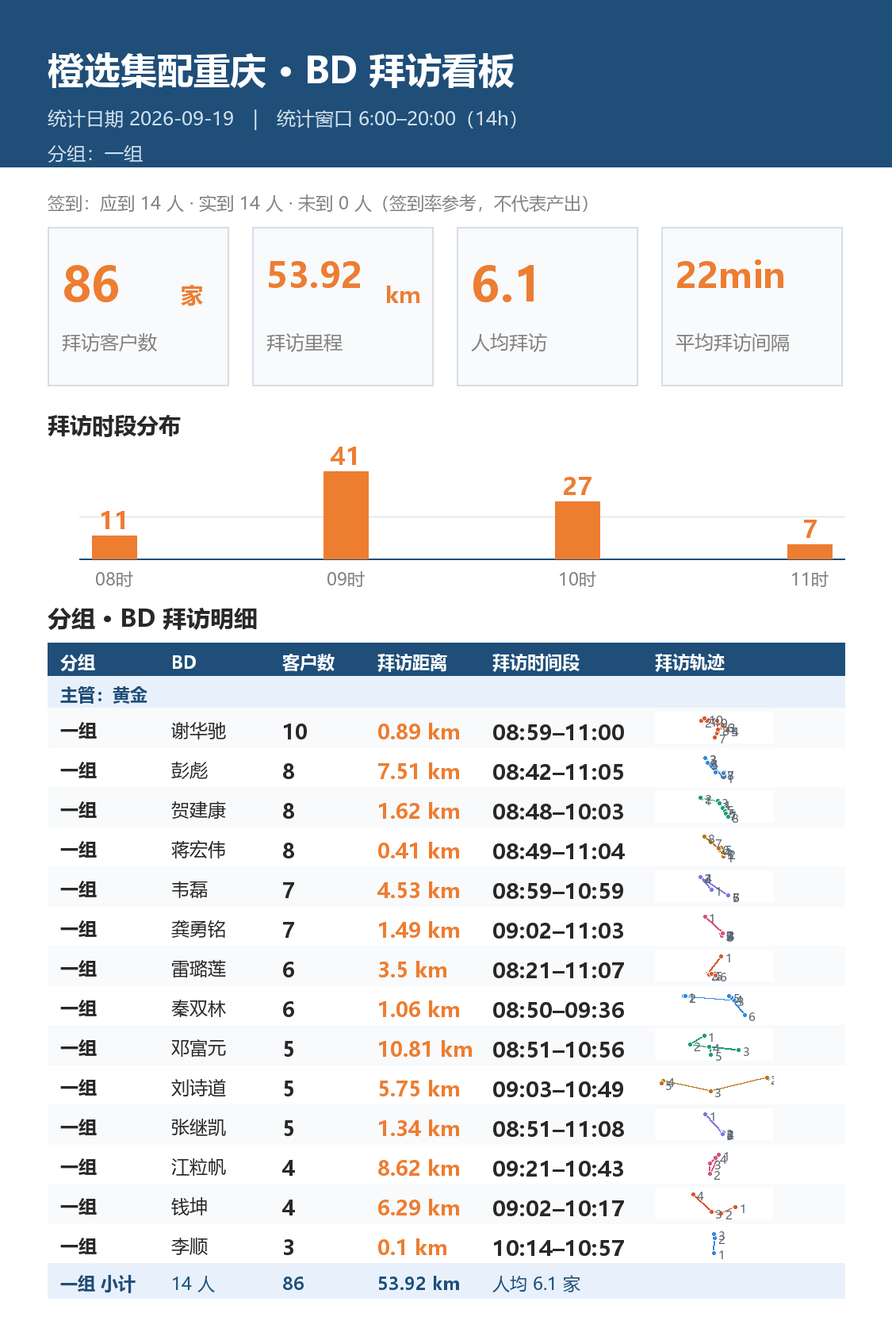
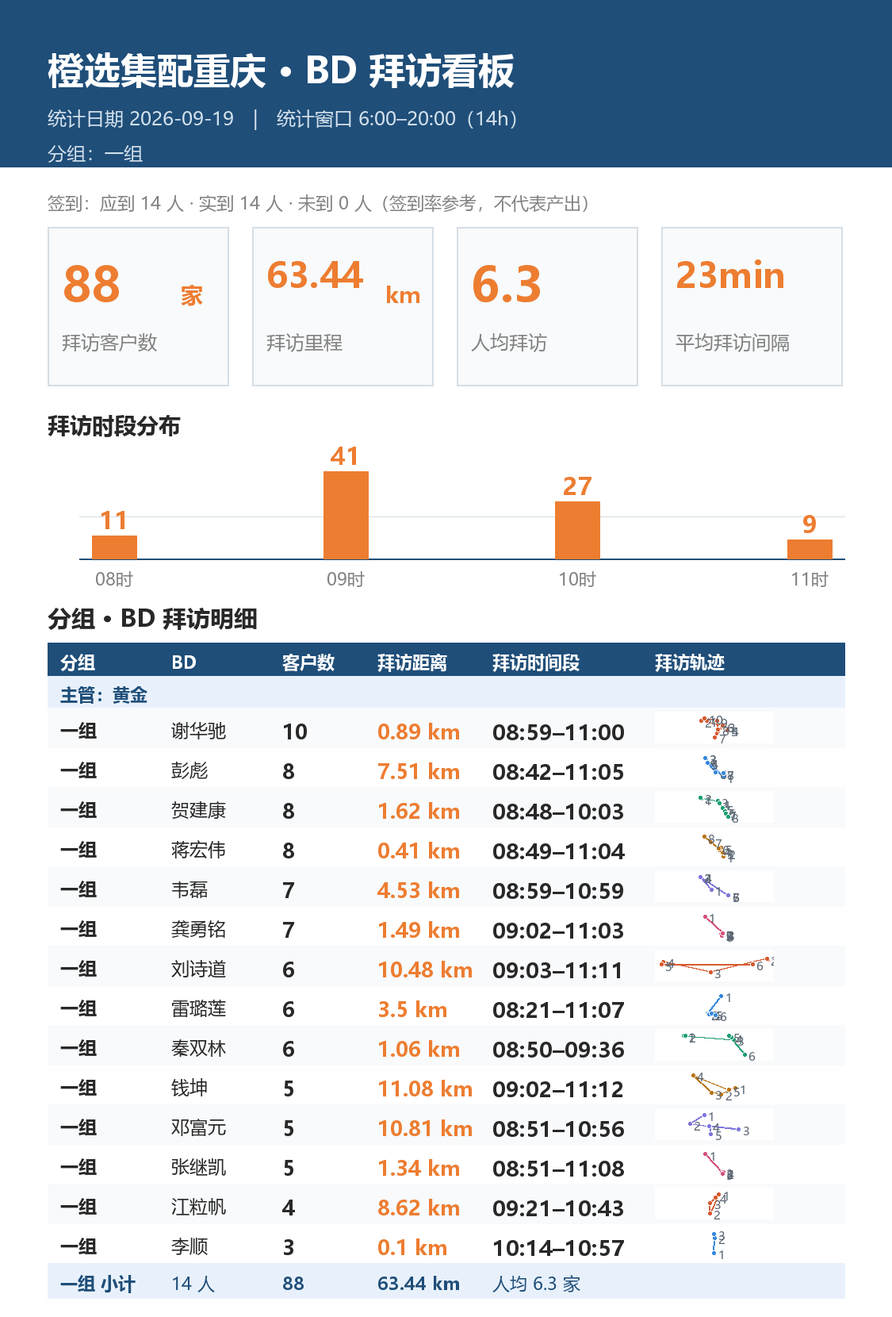
BD 拜访看板 2026-09-19

diff --git a/visit_board_g1.html b/visit_board_g1.html
@@ -107,9 +107,9 @@ td.span{font-size:16px;font-weight:600;color:#1F4E79;white-space:nowrap}
 <div class="sub">统计日期 2026-09-19　|　14 人　|　数据来源：钉钉签到</div></div>
 <div class="wrap">
 <div class="cards">
-<div class="card"><div><span class="v">86</span><span class="u">家</span></div><div class="l">拜访客户数</div></div><div class="card"><div><span class="v">53.92</span><span class="u">km</span></div><div class="l">拜访里程</div></div><div class="card"><div><span class="v">6.1</span><span class="u">家</span></div><div class="l">人均拜访</div></div><div class="card"><div><span class="v">22min</span><span class="u"></span></div><div class="l">平均拜访间隔</div></div>
+<div class="card"><div><span class="v">88</span><span class="u">家</span></div><div class="l">拜访客户数</div></div><div class="card"><div><span class="v">63.44</span><span class="u">km</span></div><div class="l">拜访里程</div></div><div class="card"><div><span class="v">6.3</span><span class="u">家</span></div><div class="l">人均拜访</div></div><div class="card"><div><span class="v">23min</span><span class="u"></span></div><div class="l">平均拜访间隔</div></div>
 </div>
-<div class="section"><h2>拜访时段分布</h2><div class="chart"><div class="crow"><div class="col"><span class="bv">11</span><div class="bar" style="height:16px"></div><span class="xl">08时</span></div><div class="col"><span class="bv">41</span><div class="bar" style="height:50px"></div><span class="xl">09时</span></div><div class="col"><span class="bv">27</span><div class="bar" style="height:34px"></div><span class="xl">10时</span></div><div class="col"><span class="bv">7</span><div class="bar" style="height:12px"></div><span class="xl">11时</span></div></div></div></div>
+<div class="section"><h2>拜访时段分布</h2><div class="chart"><div class="crow"><div class="col"><span class="bv">11</span><div class="bar" style="height:16px"></div><span class="xl">08时</span></div><div class="col"><span class="bv">41</span><div class="bar" style="height:50px"></div><span class="xl">09时</span></div><div class="col"><span class="bv">27</span><div class="bar" style="height:34px"></div><span class="xl">10时</span></div><div class="col"><span class="bv">9</span><div class="bar" style="height:14px"></div><span class="xl">11时</span></div></div></div></div>
 <div class="section"><h2>BD 拜访明细（14 人 / 签到 14 人）</h2>
 <table class="bd"><thead><tr><th>BD</th><th class="num">客户数</th><th class="num">拜访距离</th><th class="c">拜访时间段</th><th class="c">拜访轨迹</th></tr></thead>
 <tbody><tr style="background:#F2F6FB">
@@ -149,46 +149,46 @@ td.span{font-size:16px;font-weight:600;color:#1F4E79;white-space:nowrap}
 <td class="c span" data-label="拜访时间段">09:02–11:03</td>
 <td class="c" data-label="拜访轨迹"><a href="javascript:void(0)" onclick="openRoute(5)" style="color:#1F4E79;font-weight:600;font-size:13px;white-space:nowrap">查看详情 ›</a></td>
 </tr><tr style="background:#F2F6FB">
+<td data-label="BD">刘诗道</td>
+<td class="num" data-label="客户数">6</td>
+<td class="num orange" data-label="拜访距离">10.48</td>
+<td class="c span" data-label="拜访时间段">09:03–11:11</td>
+<td class="c" data-label="拜访轨迹"><a href="javascript:void(0)" onclick="openRoute(6)" style="color:#1F4E79;font-weight:600;font-size:13px;white-space:nowrap">查看详情 ›</a></td>
+</tr><tr style="background:#FFFFFF">
 <td data-label="BD">雷璐莲</td>
 <td class="num" data-label="客户数">6</td>
 <td class="num orange" data-label="拜访距离">3.5</td>
 <td class="c span" data-label="拜访时间段">08:21–11:07</td>
-<td class="c" data-label="拜访轨迹"><a href="javascript:void(0)" onclick="openRoute(6)" style="color:#1F4E79;font-weight:600;font-size:13px;white-space:nowrap">查看详情 ›</a></td>
-</tr><tr style="background:#FFFFFF">
+<td class="c" data-label="拜访轨迹"><a href="javascript:void(0)" onclick="openRoute(7)" style="color:#1F4E79;font-weight:600;font-size:13px;white-space:nowrap">查看详情 ›</a></td>
+</tr><tr style="background:#F2F6FB">
 <td data-label="BD">秦双林</td>
 <td class="num" data-label="客户数">6</td>
 <td class="num orange" data-label="拜访距离">1.06</td>
 <td class="c span" data-label="拜访时间段">08:50–09:36</td>
-<td class="c" data-label="拜访轨迹"><a href="javascript:void(0)" onclick="openRoute(7)" style="color:#1F4E79;font-weight:600;font-size:13px;white-space:nowrap">查看详情 ›</a></td>
+<td class="c" data-label="拜访轨迹"><a href="javascript:void(0)" onclick="openRoute(8)" style="color:#1F4E79;font-weight:600;font-size:13px;white-space:nowrap">查看详情 ›</a></td>
+</tr><tr style="background:#FFFFFF">
+<td data-label="BD">钱坤</td>
+<td class="num" data-label="客户数">5</td>
+<td class="num orange" data-label="拜访距离">11.08</td>
+<td class="c span" data-label="拜访时间段">09:02–11:12</td>
+<td class="c" data-label="拜访轨迹"><a href="javascript:void(0)" onclick="openRoute(9)" style="color:#1F4E79;font-weight:600;font-size:13px;white-space:nowrap">查看详情 ›</a></td>
 </tr><tr style="background:#F2F6FB">
 <td data-label="BD">邓富元</td>
 <td class="num" data-label="客户数">5</td>
 <td class="num orange" data-label="拜访距离">10.81</td>
 <td class="c span" data-label="拜访时间段">08:51–10:56</td>
-<td class="c" data-label="拜访轨迹"><a href="javascript:void(0)" onclick="openRoute(8)" style="color:#1F4E79;font-weight:600;font-size:13px;white-space:nowrap">查看详情 ›</a></td>
+<td class="c" data-label="拜访轨迹"><a href="javascript:void(0)" onclick="openRoute(10)" style="color:#1F4E79;font-weight:600;font-size:13px;white-space:nowrap">查看详情 ›</a></td>
 </tr><tr style="background:#FFFFFF">
-<td data-label="BD">刘诗道</td>
-<td class="num" data-label="客户数">5</td>
-<td class="num orange" data-label="拜访距离">5.75</td>
-<td class="c span" data-label="拜访时间段">09:03–10:49</td>
-<td class="c" data-label="拜访轨迹"><a href="javascript:void(0)" onclick="openRoute(9)" style="color:#1F4E79;font-weight:600;font-size:13px;white-space:nowrap">查看详情 ›</a></td>
-</tr><tr style="background:#F2F6FB">
 <td data-label="BD">张继凯</td>
 <td class="num" data-label="客户数">5</td>
 <td class="num orange" data-label="拜访距离">1.34</td>
 <td class="c span" data-label="拜访时间段">08:51–11:08</td>
-<td class="c" data-label="拜访轨迹"><a href="javascript:void(0)" onclick="openRoute(10)" style="color:#1F4E79;font-weight:600;font-size:13px;white-space:nowrap">查看详情 ›</a></td>
-</tr><tr style="background:#FFFFFF">
+<td class="c" data-label="拜访轨迹"><a href="javascript:void(0)" onclick="openRoute(11)" style="color:#1F4E79;font-weight:600;font-size:13px;white-space:nowrap">查看详情 ›</a></td>
+</tr><tr style="background:#F2F6FB">
 <td data-label="BD">江粒帆</td>
 <td class="num" data-label="客户数">4</td>
 <td class="num orange" data-label="拜访距离">8.62</td>
 <td class="c span" data-label="拜访时间段">09:21–10:43</td>
-<td class="c" data-label="拜访轨迹"><a href="javascript:void(0)" onclick="openRoute(11)" style="color:#1F4E79;font-weight:600;font-size:13px;white-space:nowrap">查看详情 ›</a></td>
-</tr><tr style="background:#F2F6FB">
-<td data-label="BD">钱坤</td>
-<td class="num" data-label="客户数">4</td>
-<td class="num orange" data-label="拜访距离">6.29</td>
-<td class="c span" data-label="拜访时间段">09:02–10:17</td>
 <td class="c" data-label="拜访轨迹"><a href="javascript:void(0)" onclick="openRoute(12)" style="color:#1F4E79;font-weight:600;font-size:13px;white-space:nowrap">查看详情 ›</a></td>
 </tr><tr style="background:#FFFFFF">
 <td data-label="BD">李顺</td>
@@ -210,7 +210,7 @@ td.span{font-size:16px;font-weight:600;color:#1F4E79;white-space:nowrap}
 </div>
 
 <script>
-const R={"0": {"name": "谢华驰", "group": "一组", "visits": 10, "distance": 0.89, "span": "08:59–11:00", "pace": "13min", "pts": [{"lat": 29.40393039279514, "lon": 105.58701768663194, "time": "08:59", "visit": "赶集", "loc": "昌元街道滨河西路", "seg_km": 0.0}, {"lat": 29.40388671875, "lon": 105.58637830946181, "time": "09:00", "visit": "张姐", "loc": "昌元街道宝荣路康宁广场", "seg_km": 0.06}, {"lat": 29.403448893229168, "lon": 105.58894476996528, "time": "09:09", "visit": "水口寺菜市场", "loc": "昌元街道宝城路184号盛世棠城", "seg_km": 0.25}, {"lat": 29.403055013020833, "lon": 105.58930474175347, "time": "09:14", "visit": "242526号摊位", "loc": "昌元街道滨河西路盛世棠城", "seg_km": 0.06}, {"lat": 29.40304253472222, "lon": 105.58926052517361, "time": "09:30", "visit": "蔬菜摊", "loc": "昌元街道滨河西路盛世棠城", "seg_km": 0.0}, {"lat": 29.403431532118056, "lon": 105.58874918619792, "time": "09:53", "visit": "蔬果摊位", "loc": "昌元街道宝城路盛世棠城", "seg_km": 0.07}, {"lat": 29.402367621527777, "lon": 105.58790473090278, "time": "10:30", "visit": "蒋敏姐妹", "loc": "昌元街道后西三街135号天正西城峰2期", "seg_km": 0.14}, {"lat": 29.4030859375, "lon": 105.58827311197916, "time": "10:36", "visit": "陈姐粮油", "loc": "昌元街道宝城路盛世棠城", "seg_km": 0.09}, {"lat": 29.403880208333334, "lon": 105.58813042534722, "time": "10:54", "visit": "蔬菜摊位", "loc": "昌元街道滨河西路", "seg_km": 0.09}, {"lat": 29.404172634548612, "lon": 105.58680094401042, "time": "11:00", "visit": "蔬菜摊位", "loc": "昌元街道滨河西路康宁广场", "seg_km": 0.13}], "stops": [{"n": 1, "time": "08:59", "visit": "赶集", "loc": "昌元街道滨河西路"}, {"n": 2, "time": "09:00", "visit": "张姐", "loc": "昌元街道宝荣路康宁广场"}, {"n": 3, "time": "09:09", "visit": "水口寺菜市场", "loc": "昌元街道宝城路184号盛世棠城"}, {"n": 4, "time": "09:14", "visit": "242526号摊位", "loc": "昌元街道滨河西路盛世棠城"}, {"n": 5, "time": "09:30", "visit": "蔬菜摊", "loc": "昌元街道滨河西路盛世棠城"}, {"n": 6, "time": "09:53", "visit": "蔬果摊位", "loc": "昌元街道宝城路盛世棠城"}, {"n": 7, "time": "10:30", "visit": "蒋敏姐妹", "loc": "昌元街道后西三街135号天正西城峰2期"}, {"n": 8, "time": "10:36", "visit": "陈姐粮油", "loc": "昌元街道宝城路盛世棠城"}, {"n": 9, "time": "10:54", "visit": "蔬菜摊位", "loc": "昌元街道滨河西路"}, {"n": 10, "time": "11:00", "visit": "蔬菜摊位", "loc": "昌元街道滨河西路康宁广场"}]}, "1": {"name": "彭彪", "group": "一组", "visits": 8, "distance": 7.51, "span": "08:42–11:05", "pace": "20min", "pts": [{"lat": 28.812763, "lon": 105.827581, "time": "08:42", "visit": "王姐蔬菜", "loc": "符阳街道兴教街合江县汽车客运站", "seg_km": 0.0}, {"lat": 28.837179, "lon": 105.801506, "time": "09:11", "visit": "快易家果蔬", "loc": "符阳街道快易家便利店阳光江山里", "seg_km": 3.72}, {"lat": 28.837478, "lon": 105.801171, "time": "09:15", "visit": "阳光超市 陈哥", "loc": "符阳街道阳光江山里(北门)", "seg_km": 0.05}, {"lat": 28.83112, "lon": 105.804019, "time": "09:51", "visit": "锦华饭店", "loc": "符阳街道金御智能精品酒店(三河职业技术学院美荔城店)合江县中医医院(成人犬伤)", "seg_km": 0.76}, {"lat": 28.830675, "lon": 105.804125, "time": "09:55", "visit": "果小满", "loc": "果小满", "seg_km": 0.05}, {"lat": 28.818349, "lon": 105.816271, "time": "10:16", "visit": "全佳惠超市", "loc": "符阳街道福景佳苑", "seg_km": 1.81}, {"lat": 28.817294, "lon": 105.827695, "time": "10:52", "visit": "贾哥蔬菜批发", "loc": "符阳街道符阳路131号转角店综合市场", "seg_km": 1.12}, {"lat": 28.817304, "lon": 105.827704, "time": "11:05", "visit": "李哥蔬菜摊位", "loc": "符阳街道符阳路131号转角店综合市场", "seg_km": 0.0}], "stops": [{"n": 1, "time": "08:42", "visit": "王姐蔬菜", "loc": "符阳街道兴教街合江县汽车客运站"}, {"n": 2, "time": "09:11", "visit": "快易家果蔬", "loc": "符阳街道快易家便利店阳光江山里"}, {"n": 3, "time": "09:15", "visit": "阳光超市 陈哥", "loc": "符阳街道阳光江山里(北门)"}, {"n": 4, "time": "09:51", "visit": "锦华饭店", "loc": "符阳街道金御智能精品酒店(三河职业技术学院美荔城店)合江县中医医院(成人犬伤)"}, {"n": 5, "time": "09:55", "visit": "果小满", "loc": "果小满"}, {"n": 6, "time": "10:16", "visit": "全佳惠超市", "loc": "符阳街道福景佳苑"}, {"n": 7, "time": "10:52", "visit": "贾哥蔬菜批发", "loc": "符阳街道符阳路131号转角店综合市场"}, {"n": 8, "time": "11:05", "visit": "李哥蔬菜摊位", "loc": "符阳街道符阳路131号转角店综合市场"}]}, "2": {"name": "贺建康", "group": "一组", "visits": 8, "distance": 1.62, "span": "08:48–10:03", "pace": "11min", "pts": [{"lat": 28.8125281387006, "lon": 105.82746294541661, "time": "08:48", "visit": "宏泰酒店", "loc": "符阳街道兴教街139号合江县汽车客运站", "seg_km": 0.0}, {"lat": 28.813089752690665, "lon": 105.82734719011563, "time": "08:53", "visit": "黄三姐超市", "loc": "符阳街道长江路合江县汽车客运站", "seg_km": 0.06}, {"lat": 28.81168, "lon": 105.834943, "time": "09:11", "visit": "蔬菜批发零售", "loc": "符阳街道新华中路", "seg_km": 0.76}, {"lat": 28.810711, "lon": 105.83552, "time": "09:17", "visit": "优品源", "loc": "符阳街道新华中路江畔明珠", "seg_km": 0.12}, {"lat": 28.808876, "lon": 105.837186, "time": "09:29", "visit": "赵记卤味", "loc": "符阳街道新华中路符阳街道红卫小学", "seg_km": 0.26}, {"lat": 28.807561, "lon": 105.838018, "time": "09:39", "visit": "绿源蔬菜", "loc": "符阳街道新华中路凯帝商务宾馆(流水沟巷店)", "seg_km": 0.17}, {"lat": 28.806721, "lon": 105.838399, "time": "09:47", "visit": "精品羊绒毛", "loc": "符阳街道月亮街", "seg_km": 0.1}, {"lat": 28.805714, "lon": 105.839462, "time": "10:03", "visit": "新鲜菜", "loc": "符阳街道新华南路", "seg_km": 0.15}], "stops": [{"n": 1, "time": "08:48", "visit": "宏泰酒店", "loc": "符阳街道兴教街139号合江县汽车客运站"}, {"n": 2, "time": "08:53", "visit": "黄三姐超市", "loc": "符阳街道长江路合江县汽车客运站"}, {"n": 3, "time": "09:11", "visit": "蔬菜批发零售", "loc": "符阳街道新华中路"}, {"n": 4, "time": "09:17", "visit": "优品源", "loc": "符阳街道新华中路江畔明珠"}, {"n": 5, "time": "09:29", "visit": "赵记卤味", "loc": "符阳街道新华中路符阳街道红卫小学"}, {"n": 6, "time": "09:39", "visit": "绿源蔬菜", "loc": "符阳街道新华中路凯帝商务宾馆(流水沟巷店)"}, {"n": 7, "time": "09:47", "visit": "精品羊绒毛", "loc": "符阳街道月亮街"}, {"n": 8, "time": "10:03", "visit": "新鲜菜", "loc": "符阳街道新华南路"}]}, "3": {"name": "蒋宏伟", "group": "一组", "visits": 8, "distance": 0.41, "span": "08:49–11:04", "pace": "19min", "pts": [{"lat": 29.402086859809028, "lon": 105.58940239800347, "time": "08:49", "visit": "老百姓超市", "loc": "昌元街道滨河中路315号天正西城峰2期", "seg_km": 0.0}, {"lat": 29.40240234375, "lon": 105.58958279079862, "time": "08:59", "visit": "蔬菜小妹", "loc": "昌元街道滨河中路295号天正西城峰2期", "seg_km": 0.04}, {"lat": 29.402454698350695, "lon": 105.58937201605903, "time": "09:06", "visit": "蔬菜店", "loc": "昌元街道滨河中路317号天正西城峰2期", "seg_km": 0.02}, {"lat": 29.40273627387153, "lon": 105.58894666883681, "time": "09:21", "visit": "水口寺101号摊位", "loc": "昌元街道后西三街125号盛世棠城", "seg_km": 0.05}, {"lat": 29.402991265190973, "lon": 105.58918294270833, "time": "09:54", "visit": "34号摊位", "loc": "昌元街道滨河中路321号盛世棠城", "seg_km": 0.04}, {"lat": 29.402959526909722, "lon": 105.58879448784722, "time": "10:19", "visit": "蔬菜摊", "loc": "昌元街道滨河中路333号盛世棠城", "seg_km": 0.04}, {"lat": 29.40367214626736, "lon": 105.58781602647569, "time": "10:31", "visit": "姜道海蔬菜配送", "loc": "昌元街道滨河西路", "seg_km": 0.12}, {"lat": 29.404242078993054, "lon": 105.58695421006945, "time": "11:04", "visit": "蔬菜摊", "loc": "昌元街道滨河西路75号宏博·帝锦花园", "seg_km": 0.1}], "stops": [{"n": 1, "time": "08:49", "visit": "老百姓超市", "loc": "昌元街道滨河中路315号天正西城峰2期"}, {"n": 2, "time": "08:59", "visit": "蔬菜小妹", "loc": "昌元街道滨河中路295号天正西城峰2期"}, {"n": 3, "time": "09:06", "visit": "蔬菜店", "loc": "昌元街道滨河中路317号天正西城峰2期"}, {"n": 4, "time": "09:21", "visit": "水口寺101号摊位", "loc": "昌元街道后西三街125号盛世棠城"}, {"n": 5, "time": "09:54", "visit": "34号摊位", "loc": "昌元街道滨河中路321号盛世棠城"}, {"n": 6, "time": "10:19", "visit": "蔬菜摊", "loc": "昌元街道滨河中路333号盛世棠城"}, {"n": 7, "time": "10:31", "visit": "姜道海蔬菜配送", "loc": "昌元街道滨河西路"}, {"n": 8, "time": "11:04", "visit": "蔬菜摊", "loc": "昌元街道滨河西路75号宏博·帝锦花园"}]}, "4": {"name": "韦磊", "group": "一组", "visits": 7, "distance": 4.53, "span": "08:59–10:59", "pace": "20min", "pts": [{"lat": 28.82181936371049, "lon": 105.81243338904132, "time": "08:59", "visit": "陈大姐", "loc": "符阳街道佛荔路君箭智造汽车充电站(君来电-源新超充站醉美站)", "seg_km": 0.0}, {"lat": 28.83210700527007, "lon": 105.80249249612905, "time": "09:23", "visit": "莉莉百货生鲜生活超市", "loc": "符阳街道荔城大道喜屿便利店", "seg_km": 1.5}, {"lat": 28.832117868800818, "lon": 105.80280315386996, "time": "09:39", "visit": "喜屿超市", "loc": "符阳街道荔城大道内江牛肉面", "seg_km": 0.03}, {"lat": 28.83197294594208, "lon": 105.8027346218224, "time": "09:52", "visit": "和成天下", "loc": "符阳街道荔城大道内江牛肉面", "seg_km": 0.02}, {"lat": 28.81721142140001, "lon": 105.82790533281856, "time": "10:37", "visit": "转角菜市场", "loc": "符阳街道干鲜调味品批发转角店综合市场", "seg_km": 2.95}, {"lat": 28.817132749436297, "lon": 105.82775410857676, "time": "10:50", "visit": "转角菜市场黄哥", "loc": "符阳街道转角店综合市场", "seg_km": 0.02}, {"lat": 28.817188404055933, "lon": 105.82774642587061, "time": "10:59", "visit": "转角菜市场李姐", "loc": "符阳街道转角店综合市场", "seg_km": 0.01}], "stops": [{"n": 1, "time": "08:59", "visit": "陈大姐", "loc": "符阳街道佛荔路君箭智造汽车充电站(君来电-源新超充站醉美站)"}, {"n": 2, "time": "09:23", "visit": "莉莉百货生鲜生活超市", "loc": "符阳街道荔城大道喜屿便利店"}, {"n": 3, "time": "09:39", "visit": "喜屿超市", "loc": "符阳街道荔城大道内江牛肉面"}, {"n": 4, "time": "09:52", "visit": "和成天下", "loc": "符阳街道荔城大道内江牛肉面"}, {"n": 5, "time": "10:37", "visit": "转角菜市场", "loc": "符阳街道干鲜调味品批发转角店综合市场"}, {"n": 6, "time": "10:50", "visit": "转角菜市场黄哥", "loc": "符阳街道转角店综合市场"}, {"n": 7, "time": "10:59", "visit": "转角菜市场李姐", "loc": "符阳街道转角店综合市场"}]}, "5": {"name": "龚勇铭", "group": "一组", "visits": 7, "distance": 1.49, "span": "09:02–11:03", "pace": "20min", "pts": [{"lat": 30.19592041468371, "lon": 105.84103222171747, "time": "09:02", "visit": "熊大爷水饺", "loc": "桂林街道金田路301号隆鑫中央大街销售中心", "seg_km": 0.0}, {"lat": 30.188638, "lon": 105.849946, "time": "09:35", "visit": "水果摊", "loc": "桂林街道五湖路翰林菜市场", "seg_km": 1.18}, {"lat": 30.188772, "lon": 105.850061, "time": "10:20", "visit": "幸福平价超市", "loc": "桂林街道五湖路翰林菜市场", "seg_km": 0.02}, {"lat": 30.188258, "lon": 105.849752, "time": "10:54", "visit": "生鲜摊", "loc": "桂林街道五湖路翰林菜市场", "seg_km": 0.06}, {"lat": 30.188402, "lon": 105.848982, "time": "10:56", "visit": "生鲜摊", "loc": "桂林街道五湖路453号翰林菜市场", "seg_km": 0.08}, {"lat": 30.187945, "lon": 105.849246, "time": "11:00", "visit": "生鲜摊", "loc": "桂林街道五湖路445号翰林菜市场", "seg_km": 0.06}, {"lat": 30.188766, "lon": 105.849433, "time": "11:03", "visit": "原来超市", "loc": "桂林街道民居街翰林菜市场", "seg_km": 0.09}], "stops": [{"n": 1, "time": "09:02", "visit": "熊大爷水饺", "loc": "桂林街道金田路301号隆鑫中央大街销售中心"}, {"n": 2, "time": "09:35", "visit": "水果摊", "loc": "桂林街道五湖路翰林菜市场"}, {"n": 3, "time": "10:20", "visit": "幸福平价超市", "loc": "桂林街道五湖路翰林菜市场"}, {"n": 4, "time": "10:54", "visit": "生鲜摊", "loc": "桂林街道五湖路翰林菜市场"}, {"n": 5, "time": "10:56", "visit": "生鲜摊", "loc": "桂林街道五湖路453号翰林菜市场"}, {"n": 6, "time": "11:00", "visit": "生鲜摊", "loc": "桂林街道五湖路445号翰林菜市场"}, {"n": 7, "time": "11:03", "visit": "原来超市", "loc": "桂林街道民居街翰林菜市场"}]}, "6": {"name": "雷璐莲", "group": "一组", "visits": 6, "distance": 3.5, "span": "08:21–11:07", "pace": "33min", "pts": [{"lat": 30.197614203559027, "lon": 105.84047471788195, "time": "08:21", "visit": "潼乐购生鲜超市", "loc": "桂林街道荣估五块十块火锅集市(潼南隆鑫店)隆鑫·天宸", "seg_km": 0.0}, {"lat": 30.17942816840278, "lon": 105.82440483940972, "time": "09:23", "visit": "鲜优美", "loc": "梓潼街道正兴街283号冠南花园", "seg_km": 2.54}, {"lat": 30.17913357204861, "lon": 105.82532118055556, "time": "09:35", "visit": "怡鲜超市", "loc": "梓潼街道正兴街191号御景江山", "seg_km": 0.09}, {"lat": 30.17927273220486, "lon": 105.82666259765625, "time": "10:19", "visit": "王果仓", "loc": "梓潼街道正兴街御景江山", "seg_km": 0.13}, {"lat": 30.1794677734375, "lon": 105.82966254340278, "time": "10:42", "visit": "菜到家", "loc": "梓潼街道通江巷华城名都", "seg_km": 0.29}, {"lat": 30.17849880642361, "lon": 105.83421630859375, "time": "11:07", "visit": "水果王子", "loc": "梓潼街道接龙横街外滩国际城2期", "seg_km": 0.45}], "stops": [{"n": 1, "time": "08:21", "visit": "潼乐购生鲜超市", "loc": "桂林街道荣估五块十块火锅集市(潼南隆鑫店)隆鑫·天宸"}, {"n": 2, "time": "09:23", "visit": "鲜优美", "loc": "梓潼街道正兴街283号冠南花园"}, {"n": 3, "time": "09:35", "visit": "怡鲜超市", "loc": "梓潼街道正兴街191号御景江山"}, {"n": 4, "time": "10:19", "visit": "王果仓", "loc": "梓潼街道正兴街御景江山"}, {"n": 5, "time": "10:42", "visit": "菜到家", "loc": "梓潼街道通江巷华城名都"}, {"n": 6, "time": "11:07", "visit": "水果王子", "loc": "梓潼街道接龙横街外滩国际城2期"}]}, "7": {"name": "秦双林", "group": "一组", "visits": 6, "distance": 1.06, "span": "08:50–09:36", "pace": "9min", "pts": [{"lat": 28.812544, "lon": 105.827814, "time": "08:50", "visit": "刘姐超市水果店", "loc": "符阳街道兴教街合江县汽车客运站", "seg_km": 0.0}, {"lat": 28.812457, "lon": 105.827951, "time": "09:12", "visit": "冯鲜生下单", "loc": "符阳街道兴教街合江县汽车客运站", "seg_km": 0.02}, {"lat": 28.812069, "lon": 105.834526, "time": "09:14", "visit": "菜大妈", "loc": "符阳街道新华中路", "seg_km": 0.64}, {"lat": 28.81227, "lon": 105.834243, "time": "09:17", "visit": "田园蔬菜维护", "loc": "符阳街道新华中路时代广场", "seg_km": 0.04}, {"lat": 28.812494, "lon": 105.833958, "time": "09:24", "visit": "左邻右舍", "loc": "符阳街道新华中路时代广场", "seg_km": 0.04}, {"lat": 28.810278, "lon": 105.836032, "time": "09:36", "visit": "鑫果源", "loc": "符阳街道新华中路江畔明珠", "seg_km": 0.32}], "stops": [{"n": 1, "time": "08:50", "visit": "刘姐超市水果店", "loc": "符阳街道兴教街合江县汽车客运站"}, {"n": 2, "time": "09:12", "visit": "冯鲜生下单", "loc": "符阳街道兴教街合江县汽车客运站"}, {"n": 3, "time": "09:14", "visit": "菜大妈", "loc": "符阳街道新华中路"}, {"n": 4, "time": "09:17", "visit": "田园蔬菜维护", "loc": "符阳街道新华中路时代广场"}, {"n": 5, "time": "09:24", "visit": "左邻右舍", "loc": "符阳街道新华中路时代广场"}, {"n": 6, "time": "09:36", "visit": "鑫果源", "loc": "符阳街道新华中路江畔明珠"}]}, "8": {"name": "邓富元", "group": "一组", "visits": 5, "distance": 10.81, "span": "08:51–10:56", "pace": "31min", "pts": [{"lat": 29.410038, "lon": 105.603905, "time": "08:51", "visit": "水果王", "loc": "昌州街道海棠四支路北城双星", "seg_km": 0.0}, {"lat": 29.40151696656638, "lon": 105.58851332170896, "time": "09:33", "visit": "杉芬水果", "loc": "昌元街道西大街64号天正西城峰2期", "seg_km": 1.77}, {"lat": 29.396535, "lon": 105.640739, "time": "09:59", "visit": "果果鲜水果店", "loc": "昌州街道东方大道125号", "seg_km": 5.09}, {"lat": 29.399422, "lon": 105.608704, "time": "10:17", "visit": "喻氏水果批发零售", "loc": "昌州街道迎宾大道南段36号", "seg_km": 3.12}, {"lat": 29.392335, "lon": 105.611231, "time": "10:56", "visit": "全又佳", "loc": "昌州街道迎宾大道南段149号昕晖中航·璟熙", "seg_km": 0.83}], "stops": [{"n": 1, "time": "08:51", "visit": "水果王", "loc": "昌州街道海棠四支路北城双星"}, {"n": 2, "time": "09:33", "visit": "杉芬水果", "loc": "昌元街道西大街64号天正西城峰2期"}, {"n": 3, "time": "09:59", "visit": "果果鲜水果店", "loc": "昌州街道东方大道125号"}, {"n": 4, "time": "10:17", "visit": "喻氏水果批发零售", "loc": "昌州街道迎宾大道南段36号"}, {"n": 5, "time": "10:56", "visit": "全又佳", "loc": "昌州街道迎宾大道南段149号昕晖中航·璟熙"}]}, "9": {"name": "刘诗道", "group": "一组", "visits": 5, "distance": 5.75, "span": "09:03–10:49", "pace": "26min", "pts": [{"lat": 29.406026, "lon": 105.639873, "time": "09:03", "visit": "老百姓超市行政中心", "loc": "昌州街道华腾路重庆巨龙管业公司", "seg_km": 0.0}, {"lat": 29.406419, "lon": 105.639611, "time": "09:29", "visit": "时代超市", "loc": "昌州街道永立优鲜", "seg_km": 0.05}, {"lat": 29.400174, "lon": 105.609481, "time": "09:59", "visit": "友源蔬菜配送中心", "loc": "昌州街道迎宾大道南段", "seg_km": 3.0}, {"lat": 29.405110256318125, "lon": 105.5842196531114, "time": "10:34", "visit": "绿源优选超市", "loc": "昌元街道中科路滨河花园", "seg_km": 2.51}, {"lat": 29.403739714783796, "lon": 105.5830773543366, "time": "10:49", "visit": "永立优鲜超市", "loc": "昌元街道中科路滨河花园", "seg_km": 0.19}], "stops": [{"n": 1, "time": "09:03", "visit": "老百姓超市行政中心", "loc": "昌州街道华腾路重庆巨龙管业公司"}, {"n": 2, "time": "09:29", "visit": "时代超市", "loc": "昌州街道永立优鲜"}, {"n": 3, "time": "09:59", "visit": "友源蔬菜配送中心", "loc": "昌州街道迎宾大道南段"}, {"n": 4, "time": "10:34", "visit": "绿源优选超市", "loc": "昌元街道中科路滨河花园"}, {"n": 5, "time": "10:49", "visit": "永立优鲜超市", "loc": "昌元街道中科路滨河花园"}]}, "10": {"name": "张继凯", "group": "一组", "visits": 5, "distance": 1.34, "span": "08:51–11:08", "pace": "34min", "pts": [{"lat": 30.195808919270835, "lon": 105.841142578125, "time": "08:51", "visit": "四喜酒店", "loc": "桂林街道瑞幸咖啡(隆鑫中央大街店)重庆四喜酒店(潼南隆鑫中央大街店)", "seg_km": 0.0}, {"lat": 30.188090006510418, "lon": 105.84945502387153, "time": "09:36", "visit": "奇旺生鲜", "loc": "桂林街道五湖路460号翰林菜市场", "seg_km": 1.17}, {"lat": 30.188436957465278, "lon": 105.84909613715278, "time": "09:39", "visit": "蔬菜摊位", "loc": "桂林街道民居街20号翰林菜市场", "seg_km": 0.05}, {"lat": 30.188282877604166, "lon": 105.84974500868056, "time": "10:54", "visit": "农资批发中心", "loc": "桂林街道五湖路翰林菜市场", "seg_km": 0.06}, {"lat": 30.187925618489583, "lon": 105.84924723307292, "time": "11:08", "visit": "蔬菜摊位", "loc": "桂林街道五湖路445号翰林菜市场", "seg_km": 0.06}], "stops": [{"n": 1, "time": "08:51", "visit": "四喜酒店", "loc": "桂林街道瑞幸咖啡(隆鑫中央大街店)重庆四喜酒店(潼南隆鑫中央大街店)"}, {"n": 2, "time": "09:36", "visit": "奇旺生鲜", "loc": "桂林街道五湖路460号翰林菜市场"}, {"n": 3, "time": "09:39", "visit": "蔬菜摊位", "loc": "桂林街道民居街20号翰林菜市场"}, {"n": 4, "time": "10:54", "visit": "农资批发中心", "loc": "桂林街道五湖路翰林菜市场"}, {"n": 5, "time": "11:08", "visit": "蔬菜摊位", "loc": "桂林街道五湖路445号翰林菜市场"}]}, "11": {"name": "江粒帆", "group": "一组", "visits": 4, "distance": 8.62, "span": "09:21–10:43", "pace": "28min", "pts": [{"lat": 30.193685, "lon": 105.856448, "time": "09:21", "visit": "豪生生鲜超市", "loc": "豪生生鲜超市(巴渝大道店)", "seg_km": 0.0}, {"lat": 30.155898, "lon": 105.835082, "time": "09:49", "visit": "家园生鲜超市", "loc": "家园超市(S205店)", "seg_km": 4.68}, {"lat": 30.1757, "lon": 105.836111, "time": "10:03", "visit": "五经坝农贸菜市场", "loc": "五经坝农产品交易中心", "seg_km": 2.2}, {"lat": 30.186993, "lon": 105.848603, "time": "10:43", "visit": "农贸市场", "loc": "江北智慧农贸市场", "seg_km": 1.74}], "stops": [{"n": 1, "time": "09:21", "visit": "豪生生鲜超市", "loc": "豪生生鲜超市(巴渝大道店)"}, {"n": 2, "time": "09:49", "visit": "家园生鲜超市", "loc": "家园超市(S205店)"}, {"n": 3, "time": "10:03", "visit": "五经坝农贸菜市场", "loc": "五经坝农产品交易中心"}, {"n": 4, "time": "10:43", "visit": "农贸市场", "loc": "江北智慧农贸市场"}]}, "12": {"name": "钱坤", "group": "一组", "visits": 4, "distance": 6.29, "span": "09:02–10:17", "pace": "25min", "pts": [{"lat": 29.405934, "lon": 105.640278, "time": "09:02", "visit": "老百姓超市", "loc": "昌州街道华腾路重庆巨龙管业公司", "seg_km": 0.0}, {"lat": 29.399292164836147, "lon": 105.62197927931912, "time": "09:30", "visit": "原野超市", "loc": "昌州街道荣升路仁和小区", "seg_km": 1.92}, {"lat": 29.400463, "lon": 105.609447, "time": "09:57", "visit": "原生农业", "loc": "昌州街道迎宾大道南段", "seg_km": 1.22}, {"lat": 29.420239, "lon": 105.586186, "time": "10:17", "visit": "新城", "loc": "昌州街道香国大道519号海棠新城", "seg_km": 3.15}], "stops": [{"n": 1, "time": "09:02", "visit": "老百姓超市", "loc": "昌州街道华腾路重庆巨龙管业公司"}, {"n": 2, "time": "09:30", "visit": "原野超市", "loc": "昌州街道荣升路仁和小区"}, {"n": 3, "time": "09:57", "visit": "原生农业", "loc": "昌州街道迎宾大道南段"}, {"n": 4, "time": "10:17", "visit": "新城", "loc": "昌州街道香国大道519号海棠新城"}]}, "13": {"name": "李顺", "group": "一组", "visits": 3, "distance": 0.1, "span": "10:14–10:57", "pace": "22min", "pts": [{"lat": 30.196637369791667, "lon": 105.84046495225695, "time": "10:14", "visit": "三毛牛火锅", "loc": "桂林街道巴蜀大道522号隆鑫·天宸", "seg_km": 0.0}, {"lat": 30.197377115885416, "lon": 105.8405007595486, "time": "10:16", "visit": "尹珍珠", "loc": "桂林街道尹珍珠·韩式无限烤肉(潼南隆鑫店)隆鑫·天宸", "seg_km": 0.08}, {"lat": 30.197571885850696, "lon": 105.84047932942708, "time": "10:57", "visit": "潼乐购超市", "loc": "桂林街道荣估五块十块火锅集市(潼南隆鑫店)隆鑫·天宸", "seg_km": 0.02}], "stops": [{"n": 1, "time": "10:14", "visit": "三毛牛火锅", "loc": "桂林街道巴蜀大道522号隆鑫·天宸"}, {"n": 2, "time": "10:16", "visit": "尹珍珠", "loc": "桂林街道尹珍珠·韩式无限烤肉(潼南隆鑫店)隆鑫·天宸"}, {"n": 3, "time": "10:57", "visit": "潼乐购超市", "loc": "桂林街道荣估五块十块火锅集市(潼南隆鑫店)隆鑫·天宸"}]}};
+const R={"0": {"name": "谢华驰", "group": "一组", "visits": 10, "distance": 0.89, "span": "08:59–11:00", "pace": "13min", "pts": [{"lat": 29.40393039279514, "lon": 105.58701768663194, "time": "08:59", "visit": "赶集", "loc": "昌元街道滨河西路", "seg_km": 0.0}, {"lat": 29.40388671875, "lon": 105.58637830946181, "time": "09:00", "visit": "张姐", "loc": "昌元街道宝荣路康宁广场", "seg_km": 0.06}, {"lat": 29.403448893229168, "lon": 105.58894476996528, "time": "09:09", "visit": "水口寺菜市场", "loc": "昌元街道宝城路184号盛世棠城", "seg_km": 0.25}, {"lat": 29.403055013020833, "lon": 105.58930474175347, "time": "09:14", "visit": "242526号摊位", "loc": "昌元街道滨河西路盛世棠城", "seg_km": 0.06}, {"lat": 29.40304253472222, "lon": 105.58926052517361, "time": "09:30", "visit": "蔬菜摊", "loc": "昌元街道滨河西路盛世棠城", "seg_km": 0.0}, {"lat": 29.403431532118056, "lon": 105.58874918619792, "time": "09:53", "visit": "蔬果摊位", "loc": "昌元街道宝城路盛世棠城", "seg_km": 0.07}, {"lat": 29.402367621527777, "lon": 105.58790473090278, "time": "10:30", "visit": "蒋敏姐妹", "loc": "昌元街道后西三街135号天正西城峰2期", "seg_km": 0.14}, {"lat": 29.4030859375, "lon": 105.58827311197916, "time": "10:36", "visit": "陈姐粮油", "loc": "昌元街道宝城路盛世棠城", "seg_km": 0.09}, {"lat": 29.403880208333334, "lon": 105.58813042534722, "time": "10:54", "visit": "蔬菜摊位", "loc": "昌元街道滨河西路", "seg_km": 0.09}, {"lat": 29.404172634548612, "lon": 105.58680094401042, "time": "11:00", "visit": "蔬菜摊位", "loc": "昌元街道滨河西路康宁广场", "seg_km": 0.13}], "stops": [{"n": 1, "time": "08:59", "visit": "赶集", "loc": "昌元街道滨河西路"}, {"n": 2, "time": "09:00", "visit": "张姐", "loc": "昌元街道宝荣路康宁广场"}, {"n": 3, "time": "09:09", "visit": "水口寺菜市场", "loc": "昌元街道宝城路184号盛世棠城"}, {"n": 4, "time": "09:14", "visit": "242526号摊位", "loc": "昌元街道滨河西路盛世棠城"}, {"n": 5, "time": "09:30", "visit": "蔬菜摊", "loc": "昌元街道滨河西路盛世棠城"}, {"n": 6, "time": "09:53", "visit": "蔬果摊位", "loc": "昌元街道宝城路盛世棠城"}, {"n": 7, "time": "10:30", "visit": "蒋敏姐妹", "loc": "昌元街道后西三街135号天正西城峰2期"}, {"n": 8, "time": "10:36", "visit": "陈姐粮油", "loc": "昌元街道宝城路盛世棠城"}, {"n": 9, "time": "10:54", "visit": "蔬菜摊位", "loc": "昌元街道滨河西路"}, {"n": 10, "time": "11:00", "visit": "蔬菜摊位", "loc": "昌元街道滨河西路康宁广场"}]}, "1": {"name": "彭彪", "group": "一组", "visits": 8, "distance": 7.51, "span": "08:42–11:05", "pace": "20min", "pts": [{"lat": 28.812763, "lon": 105.827581, "time": "08:42", "visit": "王姐蔬菜", "loc": "符阳街道兴教街合江县汽车客运站", "seg_km": 0.0}, {"lat": 28.837179, "lon": 105.801506, "time": "09:11", "visit": "快易家果蔬", "loc": "符阳街道快易家便利店阳光江山里", "seg_km": 3.72}, {"lat": 28.837478, "lon": 105.801171, "time": "09:15", "visit": "阳光超市 陈哥", "loc": "符阳街道阳光江山里(北门)", "seg_km": 0.05}, {"lat": 28.83112, "lon": 105.804019, "time": "09:51", "visit": "锦华饭店", "loc": "符阳街道金御智能精品酒店(三河职业技术学院美荔城店)合江县中医医院(成人犬伤)", "seg_km": 0.76}, {"lat": 28.830675, "lon": 105.804125, "time": "09:55", "visit": "果小满", "loc": "果小满", "seg_km": 0.05}, {"lat": 28.818349, "lon": 105.816271, "time": "10:16", "visit": "全佳惠超市", "loc": "符阳街道福景佳苑", "seg_km": 1.81}, {"lat": 28.817294, "lon": 105.827695, "time": "10:52", "visit": "贾哥蔬菜批发", "loc": "符阳街道符阳路131号转角店综合市场", "seg_km": 1.12}, {"lat": 28.817304, "lon": 105.827704, "time": "11:05", "visit": "李哥蔬菜摊位", "loc": "符阳街道符阳路131号转角店综合市场", "seg_km": 0.0}], "stops": [{"n": 1, "time": "08:42", "visit": "王姐蔬菜", "loc": "符阳街道兴教街合江县汽车客运站"}, {"n": 2, "time": "09:11", "visit": "快易家果蔬", "loc": "符阳街道快易家便利店阳光江山里"}, {"n": 3, "time": "09:15", "visit": "阳光超市 陈哥", "loc": "符阳街道阳光江山里(北门)"}, {"n": 4, "time": "09:51", "visit": "锦华饭店", "loc": "符阳街道金御智能精品酒店(三河职业技术学院美荔城店)合江县中医医院(成人犬伤)"}, {"n": 5, "time": "09:55", "visit": "果小满", "loc": "果小满"}, {"n": 6, "time": "10:16", "visit": "全佳惠超市", "loc": "符阳街道福景佳苑"}, {"n": 7, "time": "10:52", "visit": "贾哥蔬菜批发", "loc": "符阳街道符阳路131号转角店综合市场"}, {"n": 8, "time": "11:05", "visit": "李哥蔬菜摊位", "loc": "符阳街道符阳路131号转角店综合市场"}]}, "2": {"name": "贺建康", "group": "一组", "visits": 8, "distance": 1.62, "span": "08:48–10:03", "pace": "11min", "pts": [{"lat": 28.8125281387006, "lon": 105.82746294541661, "time": "08:48", "visit": "宏泰酒店", "loc": "符阳街道兴教街139号合江县汽车客运站", "seg_km": 0.0}, {"lat": 28.813089752690665, "lon": 105.82734719011563, "time": "08:53", "visit": "黄三姐超市", "loc": "符阳街道长江路合江县汽车客运站", "seg_km": 0.06}, {"lat": 28.81168, "lon": 105.834943, "time": "09:11", "visit": "蔬菜批发零售", "loc": "符阳街道新华中路", "seg_km": 0.76}, {"lat": 28.810711, "lon": 105.83552, "time": "09:17", "visit": "优品源", "loc": "符阳街道新华中路江畔明珠", "seg_km": 0.12}, {"lat": 28.808876, "lon": 105.837186, "time": "09:29", "visit": "赵记卤味", "loc": "符阳街道新华中路符阳街道红卫小学", "seg_km": 0.26}, {"lat": 28.807561, "lon": 105.838018, "time": "09:39", "visit": "绿源蔬菜", "loc": "符阳街道新华中路凯帝商务宾馆(流水沟巷店)", "seg_km": 0.17}, {"lat": 28.806721, "lon": 105.838399, "time": "09:47", "visit": "精品羊绒毛", "loc": "符阳街道月亮街", "seg_km": 0.1}, {"lat": 28.805714, "lon": 105.839462, "time": "10:03", "visit": "新鲜菜", "loc": "符阳街道新华南路", "seg_km": 0.15}], "stops": [{"n": 1, "time": "08:48", "visit": "宏泰酒店", "loc": "符阳街道兴教街139号合江县汽车客运站"}, {"n": 2, "time": "08:53", "visit": "黄三姐超市", "loc": "符阳街道长江路合江县汽车客运站"}, {"n": 3, "time": "09:11", "visit": "蔬菜批发零售", "loc": "符阳街道新华中路"}, {"n": 4, "time": "09:17", "visit": "优品源", "loc": "符阳街道新华中路江畔明珠"}, {"n": 5, "time": "09:29", "visit": "赵记卤味", "loc": "符阳街道新华中路符阳街道红卫小学"}, {"n": 6, "time": "09:39", "visit": "绿源蔬菜", "loc": "符阳街道新华中路凯帝商务宾馆(流水沟巷店)"}, {"n": 7, "time": "09:47", "visit": "精品羊绒毛", "loc": "符阳街道月亮街"}, {"n": 8, "time": "10:03", "visit": "新鲜菜", "loc": "符阳街道新华南路"}]}, "3": {"name": "蒋宏伟", "group": "一组", "visits": 8, "distance": 0.41, "span": "08:49–11:04", "pace": "19min", "pts": [{"lat": 29.402086859809028, "lon": 105.58940239800347, "time": "08:49", "visit": "老百姓超市", "loc": "昌元街道滨河中路315号天正西城峰2期", "seg_km": 0.0}, {"lat": 29.40240234375, "lon": 105.58958279079862, "time": "08:59", "visit": "蔬菜小妹", "loc": "昌元街道滨河中路295号天正西城峰2期", "seg_km": 0.04}, {"lat": 29.402454698350695, "lon": 105.58937201605903, "time": "09:06", "visit": "蔬菜店", "loc": "昌元街道滨河中路317号天正西城峰2期", "seg_km": 0.02}, {"lat": 29.40273627387153, "lon": 105.58894666883681, "time": "09:21", "visit": "水口寺101号摊位", "loc": "昌元街道后西三街125号盛世棠城", "seg_km": 0.05}, {"lat": 29.402991265190973, "lon": 105.58918294270833, "time": "09:54", "visit": "34号摊位", "loc": "昌元街道滨河中路321号盛世棠城", "seg_km": 0.04}, {"lat": 29.402959526909722, "lon": 105.58879448784722, "time": "10:19", "visit": "蔬菜摊", "loc": "昌元街道滨河中路333号盛世棠城", "seg_km": 0.04}, {"lat": 29.40367214626736, "lon": 105.58781602647569, "time": "10:31", "visit": "姜道海蔬菜配送", "loc": "昌元街道滨河西路", "seg_km": 0.12}, {"lat": 29.404242078993054, "lon": 105.58695421006945, "time": "11:04", "visit": "蔬菜摊", "loc": "昌元街道滨河西路75号宏博·帝锦花园", "seg_km": 0.1}], "stops": [{"n": 1, "time": "08:49", "visit": "老百姓超市", "loc": "昌元街道滨河中路315号天正西城峰2期"}, {"n": 2, "time": "08:59", "visit": "蔬菜小妹", "loc": "昌元街道滨河中路295号天正西城峰2期"}, {"n": 3, "time": "09:06", "visit": "蔬菜店", "loc": "昌元街道滨河中路317号天正西城峰2期"}, {"n": 4, "time": "09:21", "visit": "水口寺101号摊位", "loc": "昌元街道后西三街125号盛世棠城"}, {"n": 5, "time": "09:54", "visit": "34号摊位", "loc": "昌元街道滨河中路321号盛世棠城"}, {"n": 6, "time": "10:19", "visit": "蔬菜摊", "loc": "昌元街道滨河中路333号盛世棠城"}, {"n": 7, "time": "10:31", "visit": "姜道海蔬菜配送", "loc": "昌元街道滨河西路"}, {"n": 8, "time": "11:04", "visit": "蔬菜摊", "loc": "昌元街道滨河西路75号宏博·帝锦花园"}]}, "4": {"name": "韦磊", "group": "一组", "visits": 7, "distance": 4.53, "span": "08:59–10:59", "pace": "20min", "pts": [{"lat": 28.82181936371049, "lon": 105.81243338904132, "time": "08:59", "visit": "陈大姐", "loc": "符阳街道佛荔路君箭智造汽车充电站(君来电-源新超充站醉美站)", "seg_km": 0.0}, {"lat": 28.83210700527007, "lon": 105.80249249612905, "time": "09:23", "visit": "莉莉百货生鲜生活超市", "loc": "符阳街道荔城大道喜屿便利店", "seg_km": 1.5}, {"lat": 28.832117868800818, "lon": 105.80280315386996, "time": "09:39", "visit": "喜屿超市", "loc": "符阳街道荔城大道内江牛肉面", "seg_km": 0.03}, {"lat": 28.83197294594208, "lon": 105.8027346218224, "time": "09:52", "visit": "和成天下", "loc": "符阳街道荔城大道内江牛肉面", "seg_km": 0.02}, {"lat": 28.81721142140001, "lon": 105.82790533281856, "time": "10:37", "visit": "转角菜市场", "loc": "符阳街道干鲜调味品批发转角店综合市场", "seg_km": 2.95}, {"lat": 28.817132749436297, "lon": 105.82775410857676, "time": "10:50", "visit": "转角菜市场黄哥", "loc": "符阳街道转角店综合市场", "seg_km": 0.02}, {"lat": 28.817188404055933, "lon": 105.82774642587061, "time": "10:59", "visit": "转角菜市场李姐", "loc": "符阳街道转角店综合市场", "seg_km": 0.01}], "stops": [{"n": 1, "time": "08:59", "visit": "陈大姐", "loc": "符阳街道佛荔路君箭智造汽车充电站(君来电-源新超充站醉美站)"}, {"n": 2, "time": "09:23", "visit": "莉莉百货生鲜生活超市", "loc": "符阳街道荔城大道喜屿便利店"}, {"n": 3, "time": "09:39", "visit": "喜屿超市", "loc": "符阳街道荔城大道内江牛肉面"}, {"n": 4, "time": "09:52", "visit": "和成天下", "loc": "符阳街道荔城大道内江牛肉面"}, {"n": 5, "time": "10:37", "visit": "转角菜市场", "loc": "符阳街道干鲜调味品批发转角店综合市场"}, {"n": 6, "time": "10:50", "visit": "转角菜市场黄哥", "loc": "符阳街道转角店综合市场"}, {"n": 7, "time": "10:59", "visit": "转角菜市场李姐", "loc": "符阳街道转角店综合市场"}]}, "5": {"name": "龚勇铭", "group": "一组", "visits": 7, "distance": 1.49, "span": "09:02–11:03", "pace": "20min", "pts": [{"lat": 30.19592041468371, "lon": 105.84103222171747, "time": "09:02", "visit": "熊大爷水饺", "loc": "桂林街道金田路301号隆鑫中央大街销售中心", "seg_km": 0.0}, {"lat": 30.188638, "lon": 105.849946, "time": "09:35", "visit": "水果摊", "loc": "桂林街道五湖路翰林菜市场", "seg_km": 1.18}, {"lat": 30.188772, "lon": 105.850061, "time": "10:20", "visit": "幸福平价超市", "loc": "桂林街道五湖路翰林菜市场", "seg_km": 0.02}, {"lat": 30.188258, "lon": 105.849752, "time": "10:54", "visit": "生鲜摊", "loc": "桂林街道五湖路翰林菜市场", "seg_km": 0.06}, {"lat": 30.188402, "lon": 105.848982, "time": "10:56", "visit": "生鲜摊", "loc": "桂林街道五湖路453号翰林菜市场", "seg_km": 0.08}, {"lat": 30.187945, "lon": 105.849246, "time": "11:00", "visit": "生鲜摊", "loc": "桂林街道五湖路445号翰林菜市场", "seg_km": 0.06}, {"lat": 30.188766, "lon": 105.849433, "time": "11:03", "visit": "原来超市", "loc": "桂林街道民居街翰林菜市场", "seg_km": 0.09}], "stops": [{"n": 1, "time": "09:02", "visit": "熊大爷水饺", "loc": "桂林街道金田路301号隆鑫中央大街销售中心"}, {"n": 2, "time": "09:35", "visit": "水果摊", "loc": "桂林街道五湖路翰林菜市场"}, {"n": 3, "time": "10:20", "visit": "幸福平价超市", "loc": "桂林街道五湖路翰林菜市场"}, {"n": 4, "time": "10:54", "visit": "生鲜摊", "loc": "桂林街道五湖路翰林菜市场"}, {"n": 5, "time": "10:56", "visit": "生鲜摊", "loc": "桂林街道五湖路453号翰林菜市场"}, {"n": 6, "time": "11:00", "visit": "生鲜摊", "loc": "桂林街道五湖路445号翰林菜市场"}, {"n": 7, "time": "11:03", "visit": "原来超市", "loc": "桂林街道民居街翰林菜市场"}]}, "6": {"name": "刘诗道", "group": "一组", "visits": 6, "distance": 10.48, "span": "09:03–11:11", "pace": "26min", "pts": [{"lat": 29.406026, "lon": 105.639873, "time": "09:03", "visit": "老百姓超市行政中心", "loc": "昌州街道华腾路重庆巨龙管业公司", "seg_km": 0.0}, {"lat": 29.406419, "lon": 105.639611, "time": "09:29", "visit": "时代超市", "loc": "昌州街道永立优鲜", "seg_km": 0.05}, {"lat": 29.400174, "lon": 105.609481, "time": "09:59", "visit": "友源蔬菜配送中心", "loc": "昌州街道迎宾大道南段", "seg_km": 3.0}, {"lat": 29.405110256318125, "lon": 105.5842196531114, "time": "10:34", "visit": "绿源优选超市", "loc": "昌元街道中科路滨河花园", "seg_km": 2.51}, {"lat": 29.403739714783796, "lon": 105.5830773543366, "time": "10:49", "visit": "永立优鲜超市", "loc": "昌元街道中科路滨河花园", "seg_km": 0.19}, {"lat": 29.403903, "lon": 105.631939, "time": "11:11", "visit": "万兴超市", "loc": "昌州街道园区五支路重庆益民技校", "seg_km": 4.73}], "stops": [{"n": 1, "time": "09:03", "visit": "老百姓超市行政中心", "loc": "昌州街道华腾路重庆巨龙管业公司"}, {"n": 2, "time": "09:29", "visit": "时代超市", "loc": "昌州街道永立优鲜"}, {"n": 3, "time": "09:59", "visit": "友源蔬菜配送中心", "loc": "昌州街道迎宾大道南段"}, {"n": 4, "time": "10:34", "visit": "绿源优选超市", "loc": "昌元街道中科路滨河花园"}, {"n": 5, "time": "10:49", "visit": "永立优鲜超市", "loc": "昌元街道中科路滨河花园"}, {"n": 6, "time": "11:11", "visit": "万兴超市", "loc": "昌州街道园区五支路重庆益民技校"}]}, "7": {"name": "雷璐莲", "group": "一组", "visits": 6, "distance": 3.5, "span": "08:21–11:07", "pace": "33min", "pts": [{"lat": 30.197614203559027, "lon": 105.84047471788195, "time": "08:21", "visit": "潼乐购生鲜超市", "loc": "桂林街道荣估五块十块火锅集市(潼南隆鑫店)隆鑫·天宸", "seg_km": 0.0}, {"lat": 30.17942816840278, "lon": 105.82440483940972, "time": "09:23", "visit": "鲜优美", "loc": "梓潼街道正兴街283号冠南花园", "seg_km": 2.54}, {"lat": 30.17913357204861, "lon": 105.82532118055556, "time": "09:35", "visit": "怡鲜超市", "loc": "梓潼街道正兴街191号御景江山", "seg_km": 0.09}, {"lat": 30.17927273220486, "lon": 105.82666259765625, "time": "10:19", "visit": "王果仓", "loc": "梓潼街道正兴街御景江山", "seg_km": 0.13}, {"lat": 30.1794677734375, "lon": 105.82966254340278, "time": "10:42", "visit": "菜到家", "loc": "梓潼街道通江巷华城名都", "seg_km": 0.29}, {"lat": 30.17849880642361, "lon": 105.83421630859375, "time": "11:07", "visit": "水果王子", "loc": "梓潼街道接龙横街外滩国际城2期", "seg_km": 0.45}], "stops": [{"n": 1, "time": "08:21", "visit": "潼乐购生鲜超市", "loc": "桂林街道荣估五块十块火锅集市(潼南隆鑫店)隆鑫·天宸"}, {"n": 2, "time": "09:23", "visit": "鲜优美", "loc": "梓潼街道正兴街283号冠南花园"}, {"n": 3, "time": "09:35", "visit": "怡鲜超市", "loc": "梓潼街道正兴街191号御景江山"}, {"n": 4, "time": "10:19", "visit": "王果仓", "loc": "梓潼街道正兴街御景江山"}, {"n": 5, "time": "10:42", "visit": "菜到家", "loc": "梓潼街道通江巷华城名都"}, {"n": 6, "time": "11:07", "visit": "水果王子", "loc": "梓潼街道接龙横街外滩国际城2期"}]}, "8": {"name": "秦双林", "group": "一组", "visits": 6, "distance": 1.06, "span": "08:50–09:36", "pace": "9min", "pts": [{"lat": 28.812544, "lon": 105.827814, "time": "08:50", "visit": "刘姐超市水果店", "loc": "符阳街道兴教街合江县汽车客运站", "seg_km": 0.0}, {"lat": 28.812457, "lon": 105.827951, "time": "09:12", "visit": "冯鲜生下单", "loc": "符阳街道兴教街合江县汽车客运站", "seg_km": 0.02}, {"lat": 28.812069, "lon": 105.834526, "time": "09:14", "visit": "菜大妈", "loc": "符阳街道新华中路", "seg_km": 0.64}, {"lat": 28.81227, "lon": 105.834243, "time": "09:17", "visit": "田园蔬菜维护", "loc": "符阳街道新华中路时代广场", "seg_km": 0.04}, {"lat": 28.812494, "lon": 105.833958, "time": "09:24", "visit": "左邻右舍", "loc": "符阳街道新华中路时代广场", "seg_km": 0.04}, {"lat": 28.810278, "lon": 105.836032, "time": "09:36", "visit": "鑫果源", "loc": "符阳街道新华中路江畔明珠", "seg_km": 0.32}], "stops": [{"n": 1, "time": "08:50", "visit": "刘姐超市水果店", "loc": "符阳街道兴教街合江县汽车客运站"}, {"n": 2, "time": "09:12", "visit": "冯鲜生下单", "loc": "符阳街道兴教街合江县汽车客运站"}, {"n": 3, "time": "09:14", "visit": "菜大妈", "loc": "符阳街道新华中路"}, {"n": 4, "time": "09:17", "visit": "田园蔬菜维护", "loc": "符阳街道新华中路时代广场"}, {"n": 5, "time": "09:24", "visit": "左邻右舍", "loc": "符阳街道新华中路时代广场"}, {"n": 6, "time": "09:36", "visit": "鑫果源", "loc": "符阳街道新华中路江畔明珠"}]}, "9": {"name": "钱坤", "group": "一组", "visits": 5, "distance": 11.08, "span": "09:02–11:12", "pace": "32min", "pts": [{"lat": 29.405934, "lon": 105.640278, "time": "09:02", "visit": "老百姓超市", "loc": "昌州街道华腾路重庆巨龙管业公司", "seg_km": 0.0}, {"lat": 29.399292164836147, "lon": 105.62197927931912, "time": "09:30", "visit": "原野超市", "loc": "昌州街道荣升路仁和小区", "seg_km": 1.92}, {"lat": 29.400463, "lon": 105.609447, "time": "09:57", "visit": "原生农业", "loc": "昌州街道迎宾大道南段", "seg_km": 1.22}, {"lat": 29.420239, "lon": 105.586186, "time": "10:17", "visit": "新城", "loc": "昌州街道香国大道519号海棠新城", "seg_km": 3.15}, {"lat": 29.403973, "lon": 105.631939, "time": "11:12", "visit": "万兴", "loc": "昌州街道园区五支路重庆益民技校", "seg_km": 4.79}], "stops": [{"n": 1, "time": "09:02", "visit": "老百姓超市", "loc": "昌州街道华腾路重庆巨龙管业公司"}, {"n": 2, "time": "09:30", "visit": "原野超市", "loc": "昌州街道荣升路仁和小区"}, {"n": 3, "time": "09:57", "visit": "原生农业", "loc": "昌州街道迎宾大道南段"}, {"n": 4, "time": "10:17", "visit": "新城", "loc": "昌州街道香国大道519号海棠新城"}, {"n": 5, "time": "11:12", "visit": "万兴", "loc": "昌州街道园区五支路重庆益民技校"}]}, "10": {"name": "邓富元", "group": "一组", "visits": 5, "distance": 10.81, "span": "08:51–10:56", "pace": "31min", "pts": [{"lat": 29.410038, "lon": 105.603905, "time": "08:51", "visit": "水果王", "loc": "昌州街道海棠四支路北城双星", "seg_km": 0.0}, {"lat": 29.40151696656638, "lon": 105.58851332170896, "time": "09:33", "visit": "杉芬水果", "loc": "昌元街道西大街64号天正西城峰2期", "seg_km": 1.77}, {"lat": 29.396535, "lon": 105.640739, "time": "09:59", "visit": "果果鲜水果店", "loc": "昌州街道东方大道125号", "seg_km": 5.09}, {"lat": 29.399422, "lon": 105.608704, "time": "10:17", "visit": "喻氏水果批发零售", "loc": "昌州街道迎宾大道南段36号", "seg_km": 3.12}, {"lat": 29.392335, "lon": 105.611231, "time": "10:56", "visit": "全又佳", "loc": "昌州街道迎宾大道南段149号昕晖中航·璟熙", "seg_km": 0.83}], "stops": [{"n": 1, "time": "08:51", "visit": "水果王", "loc": "昌州街道海棠四支路北城双星"}, {"n": 2, "time": "09:33", "visit": "杉芬水果", "loc": "昌元街道西大街64号天正西城峰2期"}, {"n": 3, "time": "09:59", "visit": "果果鲜水果店", "loc": "昌州街道东方大道125号"}, {"n": 4, "time": "10:17", "visit": "喻氏水果批发零售", "loc": "昌州街道迎宾大道南段36号"}, {"n": 5, "time": "10:56", "visit": "全又佳", "loc": "昌州街道迎宾大道南段149号昕晖中航·璟熙"}]}, "11": {"name": "张继凯", "group": "一组", "visits": 5, "distance": 1.34, "span": "08:51–11:08", "pace": "34min", "pts": [{"lat": 30.195808919270835, "lon": 105.841142578125, "time": "08:51", "visit": "四喜酒店", "loc": "桂林街道瑞幸咖啡(隆鑫中央大街店)重庆四喜酒店(潼南隆鑫中央大街店)", "seg_km": 0.0}, {"lat": 30.188090006510418, "lon": 105.84945502387153, "time": "09:36", "visit": "奇旺生鲜", "loc": "桂林街道五湖路460号翰林菜市场", "seg_km": 1.17}, {"lat": 30.188436957465278, "lon": 105.84909613715278, "time": "09:39", "visit": "蔬菜摊位", "loc": "桂林街道民居街20号翰林菜市场", "seg_km": 0.05}, {"lat": 30.188282877604166, "lon": 105.84974500868056, "time": "10:54", "visit": "农资批发中心", "loc": "桂林街道五湖路翰林菜市场", "seg_km": 0.06}, {"lat": 30.187925618489583, "lon": 105.84924723307292, "time": "11:08", "visit": "蔬菜摊位", "loc": "桂林街道五湖路445号翰林菜市场", "seg_km": 0.06}], "stops": [{"n": 1, "time": "08:51", "visit": "四喜酒店", "loc": "桂林街道瑞幸咖啡(隆鑫中央大街店)重庆四喜酒店(潼南隆鑫中央大街店)"}, {"n": 2, "time": "09:36", "visit": "奇旺生鲜", "loc": "桂林街道五湖路460号翰林菜市场"}, {"n": 3, "time": "09:39", "visit": "蔬菜摊位", "loc": "桂林街道民居街20号翰林菜市场"}, {"n": 4, "time": "10:54", "visit": "农资批发中心", "loc": "桂林街道五湖路翰林菜市场"}, {"n": 5, "time": "11:08", "visit": "蔬菜摊位", "loc": "桂林街道五湖路445号翰林菜市场"}]}, "12": {"name": "江粒帆", "group": "一组", "visits": 4, "distance": 8.62, "span": "09:21–10:43", "pace": "28min", "pts": [{"lat": 30.193685, "lon": 105.856448, "time": "09:21", "visit": "豪生生鲜超市", "loc": "豪生生鲜超市(巴渝大道店)", "seg_km": 0.0}, {"lat": 30.155898, "lon": 105.835082, "time": "09:49", "visit": "家园生鲜超市", "loc": "家园超市(S205店)", "seg_km": 4.68}, {"lat": 30.1757, "lon": 105.836111, "time": "10:03", "visit": "五经坝农贸菜市场", "loc": "五经坝农产品交易中心", "seg_km": 2.2}, {"lat": 30.186993, "lon": 105.848603, "time": "10:43", "visit": "农贸市场", "loc": "江北智慧农贸市场", "seg_km": 1.74}], "stops": [{"n": 1, "time": "09:21", "visit": "豪生生鲜超市", "loc": "豪生生鲜超市(巴渝大道店)"}, {"n": 2, "time": "09:49", "visit": "家园生鲜超市", "loc": "家园超市(S205店)"}, {"n": 3, "time": "10:03", "visit": "五经坝农贸菜市场", "loc": "五经坝农产品交易中心"}, {"n": 4, "time": "10:43", "visit": "农贸市场", "loc": "江北智慧农贸市场"}]}, "13": {"name": "李顺", "group": "一组", "visits": 3, "distance": 0.1, "span": "10:14–10:57", "pace": "22min", "pts": [{"lat": 30.196637369791667, "lon": 105.84046495225695, "time": "10:14", "visit": "三毛牛火锅", "loc": "桂林街道巴蜀大道522号隆鑫·天宸", "seg_km": 0.0}, {"lat": 30.197377115885416, "lon": 105.8405007595486, "time": "10:16", "visit": "尹珍珠", "loc": "桂林街道尹珍珠·韩式无限烤肉(潼南隆鑫店)隆鑫·天宸", "seg_km": 0.08}, {"lat": 30.197571885850696, "lon": 105.84047932942708, "time": "10:57", "visit": "潼乐购超市", "loc": "桂林街道荣估五块十块火锅集市(潼南隆鑫店)隆鑫·天宸", "seg_km": 0.02}], "stops": [{"n": 1, "time": "10:14", "visit": "三毛牛火锅", "loc": "桂林街道巴蜀大道522号隆鑫·天宸"}, {"n": 2, "time": "10:16", "visit": "尹珍珠", "loc": "桂林街道尹珍珠·韩式无限烤肉(潼南隆鑫店)隆鑫·天宸"}, {"n": 3, "time": "10:57", "visit": "潼乐购超市", "loc": "桂林街道荣估五块十块火锅集市(潼南隆鑫店)隆鑫·天宸"}]}};
 var rMap=null, rLayer=null, rReady=false;
 function ensureMap(){
   if(rReady) return;
